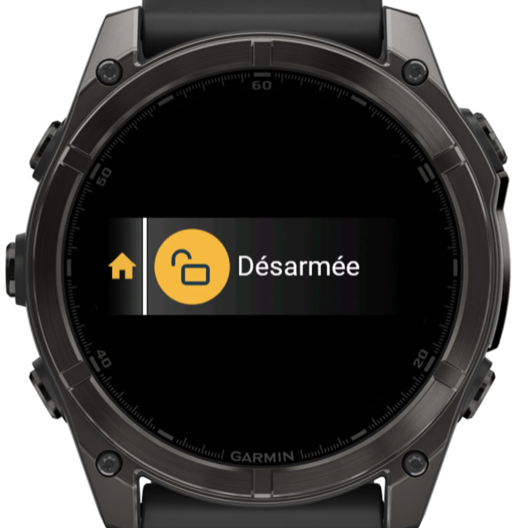
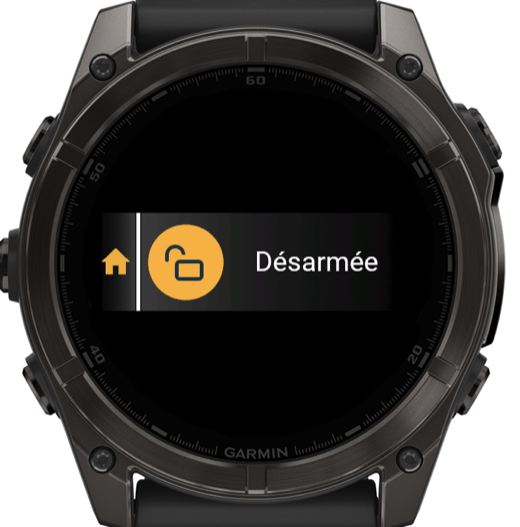
Aperçu : texte centré ; confirmation : check vert ; captures à jour

diff --git a/README.md b/README.md
@@ -54,8 +54,8 @@ Le projet contient trois briques indépendantes :
 
 ### App montre
 
-**Aperçu (glance)** : le cadenas de l'état actuel sur un rond jaune, suivi du nom de l'état
-(*Armée*, *Partielle*, *Désarmée*). C'est le dernier état connu, mis à jour à chaque
+**Aperçu (glance)** : le cadenas de l'état actuel sur un rond jaune, et le nom de l'état centré à
+côté (*Armée*, *Partielle*, *Désarmée*). C'est le dernier état connu, mis à jour à chaque
 ouverture de l'app.
 
 **Écran d'action** : titre `Alarme · <nom du site>`, puis trois cadenas façon Somfy :
@@ -70,7 +70,7 @@ ouverture de l'app.
 - Après une action : *Envoi…* puis *Confirmé* (avec vibration), ou un message d'erreur.
 
 **Confirmation du désarmement** : écran en français, même principe visuel : symboles
-**✕** (annuler, sélectionné par défaut) et **✓** (désarmer).
+**✕** (annuler, sélectionné par défaut) et **✓** en vert (désarmer).
 
 **Commandes**
 
